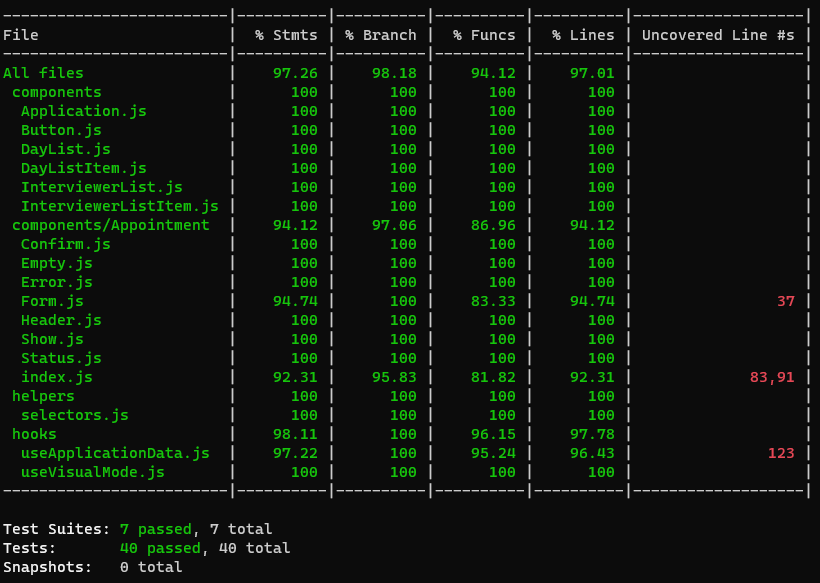
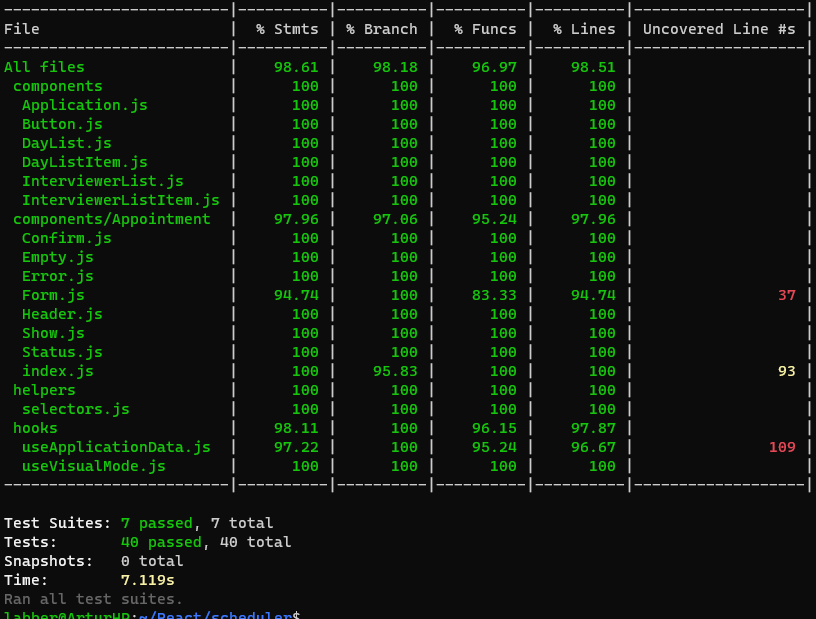
minor fix, test coverage improve

Changed region(s): [[0.0, 0.0, 1.0, 1.0], [0.8272, 0.8336, 0.9191, 0.8645], [0.5208, 0.8336, 0.5515, 0.8645]]

diff --git a/cypress/integration/appointments.spec.js b/cypress/integration/appointments.spec.js
@@ -1,75 +1,58 @@
-describe("Appointments", () => {
-
+describe('Appointments', () => {
   beforeEach(() => {
-    cy.request("GET", "/api/debug/reset");
+    cy.request('GET', '/api/debug/reset');
     // 1. Visits the root of our web server
-    cy.visit("/");
-  
-    cy.contains("Monday");
-   });
+    cy.visit('/');
+
+    cy.contains('Monday');
+  });
 
   it('should book an interview', () => {
-       // 2. Clicks on the "Add" button in the second appointment
-    cy.get("[alt=Add]")
-    .first()
-    .click();
+    // 2. Clicks on the "Add" button in the second appointment
+    cy.get('[alt=Add]').first().click();
 
     // 3. Enters their name
-    cy.get("[data-testid=student-name-input]")
-    .type("Lydia Miller-Jones");
+    cy.get('[data-testid=student-name-input]').type('Lydia Miller-Jones');
 
     // 4. Chooses an interviewer
-    cy.get("[alt='Sylvia Palmer']")
-    .click();
+    cy.get("[alt='Sylvia Palmer']").click();
 
     // 5. Clicks the save button
-    cy.contains("Save")
-    .click();
+    cy.contains('Save').click();
 
     // 6. Sees the booked appointment
-    cy.get(".appointment__card--show").should("contain", "Sylvia Palmer");
-cy.contains(".appointment__card--show", "Lydia Miller-Jones");
-  })
+    cy.get('.appointment__card--show').should('contain', 'Sylvia Palmer');
+    cy.contains('.appointment__card--show', 'Lydia Miller-Jones');
+  });
 
-  it("should edit an interview", () => {
-
+  it('should edit an interview', () => {
     //2. Clicks the edit button for the existing appointment
-    cy.get("[alt=Edit]")
-    .first()
-    .click({ force: true });
+    cy.get('[alt=Edit]').first().click({ force: true });
 
     //3. Changes the name and interviewer
-    cy.get("[data-testid=student-name-input]")
-    .clear()
-    .type("Artur");
-    cy.get("[alt='Tori Malcolm']")
-    .click();
+    cy.get('[data-testid=student-name-input]').clear().type('Artur');
+    cy.get("[alt='Tori Malcolm']").click();
 
     //4. Clicks the save button
-    cy.contains("Save")
-    .click();
+    cy.contains('Save').click();
 
     //5. Sees the edit to the appointment
-    cy.get(".appointment__card--show").should("contain", "Artur");
-cy.contains(".appointment__card--show", "Tori Malcolm");
-  })
+    cy.get('.appointment__card--show').should('contain', 'Artur');
+    cy.contains('.appointment__card--show', 'Tori Malcolm');
+  });
 
-  it("should cancel an interview", () => {
-
+  it('should cancel an interview', () => {
     //2. Clicks the delete button for the existing appointment
-    cy.get("[alt=Delete]")
-     .click({ force: true });
+    cy.get('[alt=Delete]').click({ force: true });
 
     //3. Clicks the confirm button
-    cy.contains("Confirm").click();
+    cy.contains('Confirm').click();
 
     //4. Check that the "Deleting" indicator should exist, and after not
-    cy.contains("DELETING").should("exist");
-  cy.contains("DELETING").should("not.exist");
+    cy.contains('DELETING').should('exist');
+    cy.contains('DELETING').should('not.exist');
 
     //5. Sees that the appointment slot is empty
-    cy.contains(".appointment__card--show", "Archie Cohen")
-    .should("not.exist");
-  })
-      
+    cy.contains('.appointment__card--show', 'Archie Cohen').should('not.exist');
+  });
 });

diff --git a/src/components/Appointment/index.js b/src/components/Appointment/index.js
@@ -80,7 +80,7 @@ export default function Appointment(props) {
         <Form
           interviewers={props.interviewers}
           onSave={save}
-          onCancel={() => back()}
+          onCancel={back}
           onDelete={cancelInterview}
         />
       )}
@@ -88,7 +88,7 @@ export default function Appointment(props) {
         <Form
           interviewers={props.interviewers}
           onSave={save}
-          onCancel={() => back()}
+          oonCancel={back}
           name={props.interview.student} // Pass the current student name as a prop for editing
           interviewer={props.interview ? props.interview.interviewer.id : null} // Pass the current interviewer as a prop for editing
         />

diff --git a/cypress/integration/navigation.spec.js b/cypress/integration/navigation.spec.js
@@ -1,14 +1,13 @@
-describe("Navigation", () => {
-  
-  it("should visit root", () => {
-    cy.visit("/");
+describe('Navigation', () => {
+  it('should visit root', () => {
+    cy.visit('/');
   });
 
-   it('should navigate to Tuesday', () => {
-    cy.visit("/");
+  it('should navigate to Tuesday', () => {
+    cy.visit('/');
 
-    cy.contains("[data-testid=day]", "Tuesday")
-    .click()
-    .should("have.class", "day-list__item--selected")
-});
+    cy.contains('[data-testid=day]', 'Tuesday')
+      .click()
+      .should('have.class', 'day-list__item--selected');
+  });
 });
